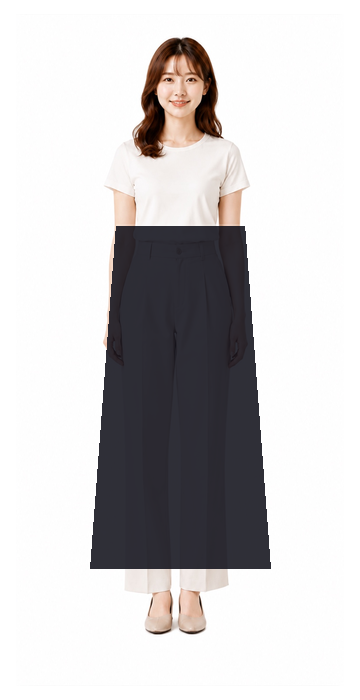
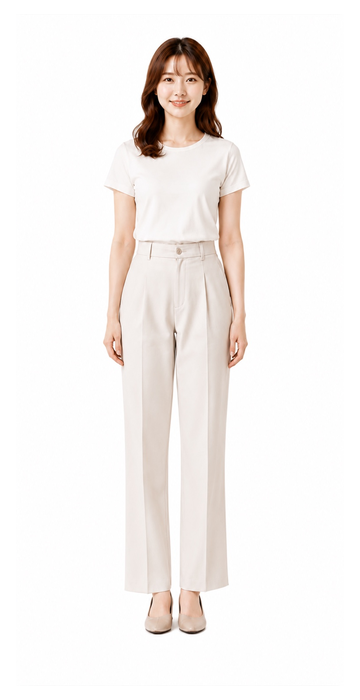
Add files via upload

Changed region(s): [[0.2444, 0.3, 0.7639, 0.81]]

diff --git a/index.html b/index.html
@@ -38,24 +38,15 @@
 </section>
 
 <section class="preview">
-  <div class="summary">
-    <span id="summaryHeight">身長 158cm</span>
-    <span id="summaryLength">着丈 120cm</span>
-  </div>
-
+  <div class="summary"><span id="summaryHeight">身長 158cm</span><span id="summaryLength">着丈 120cm</span></div>
   <div class="model-stage">
     <div class="guide shoulder">肩</div>
     <div class="guide waist">ウエスト</div>
     <div class="guide knee">ひざ</div>
     <div class="guide floor">床</div>
-
     <img id="modelImg" class="model-photo" src="images/model-onepiece.png" alt="Melffy丈感ガイド用モデル">
-
-    <div id="hemLine" class="hem-line">
-      <span id="hemLabel">120cm</span>
-    </div>
+    <div id="hemLine" class="hem-line"><span id="hemLabel">120cm</span></div>
   </div>
-
   <p class="notice">※体型や着用位置、生地感により実際の見え方は異なります。目安としてご利用ください。</p>
 </section>
 </main>

diff --git a/script.js b/script.js
@@ -12,17 +12,14 @@ const hemLabel=document.getElementById('hemLabel');
 const modelImg=document.getElementById('modelImg');
 
 let type='onepiece';
-
 const settings={
   onepiece:{label:'着丈',min:80,max:135,value:120,img:'images/model-onepiece.png'},
   skirt:{label:'スカート丈',min:40,max:100,value:74,img:'images/model-skirt.png'},
   pants:{label:'パンツ丈',min:75,max:115,value:96,img:'images/model-pants.png'}
 };
-
 const pos={shoulder:72,waist:166,knee:304,floor:412};
 
 function clamp(n,min,max){return Math.min(Math.max(n,min),max)}
-
 function getHemY(){
   const height=Number(heightInput.value)||158;
   const length=Number(lengthInput.value)||settings[type].value;
@@ -31,11 +28,9 @@ function getHemY(){
   const availablePx=pos.floor-start;
   return clamp(start+(length/referenceCm)*availablePx,start+18,pos.floor);
 }
-
 function applyType(nextType){
   type=nextType;
   const s=settings[type];
-
   lengthInput.min=s.min;
   lengthInput.max=s.max;
   lengthInput.step=1;
@@ -43,29 +38,24 @@ function applyType(nextType){
   lengthName.textContent=s.label;
   rangeMin.textContent=`${s.min}cm`;
   rangeMax.textContent=`${s.max}cm`;
-
   modelImg.classList.add('fade');
   window.setTimeout(()=>{
     modelImg.src=s.img;
     modelImg.onload=()=>modelImg.classList.remove('fade');
   },100);
-
   update();
 }
-
 function update(){
   const h=Number(heightInput.value)||158;
   const l=Number(lengthInput.value)||settings[type].value;
   const s=settings[type];
   const y=getHemY();
-
   lengthValue.textContent=l;
   summaryHeight.textContent=`身長 ${h}cm`;
   summaryLength.textContent=`${s.label} ${l}cm`;
   hemLabel.textContent=`${l}cm`;
   hemLine.style.top=`${y}px`;
 }
-
 buttons.forEach(btn=>{
   btn.addEventListener('click',()=>{
     buttons.forEach(b=>b.classList.remove('active'));
@@ -73,7 +63,6 @@ buttons.forEach(btn=>{
     applyType(btn.dataset.type);
   });
 });
-
 heightInput.addEventListener('input',update);
 lengthInput.addEventListener('input',update);
 applyType('onepiece');

diff --git a/style.css b/style.css
@@ -30,10 +30,7 @@ h1{font-size:24px;margin:2px 0 3px;letter-spacing:.08em;line-height:1.15}
 .model-photo{position:absolute;left:50%;top:-78px;transform:translateX(-50%);width:360px;height:700px;object-fit:contain;z-index:1;transition:opacity .22s ease}
 .model-photo.fade{opacity:.25}
 .guide{position:absolute;left:12px;right:12px;border-top:1px dashed rgba(217,92,126,.55);color:rgba(59,48,46,.70);font-size:10px;font-weight:900;padding-top:2px;z-index:5}
-.shoulder{top:72px}
-.waist{top:166px}
-.knee{top:304px}
-.floor{top:412px}
+.shoulder{top:72px}.waist{top:166px}.knee{top:304px}.floor{top:412px}
 .hem-line{position:absolute;left:12px;right:12px;top:348px;border-top:2px solid var(--pink2);transition:top .2s ease;z-index:8}
 .hem-line span{position:absolute;right:0;top:-26px;background:var(--pink2);color:#fff;font-weight:900;font-size:11px;border-radius:999px;padding:5px 8px}
 .notice{margin:6px 3px 0;color:var(--muted);font-size:10px;line-height:1.45}